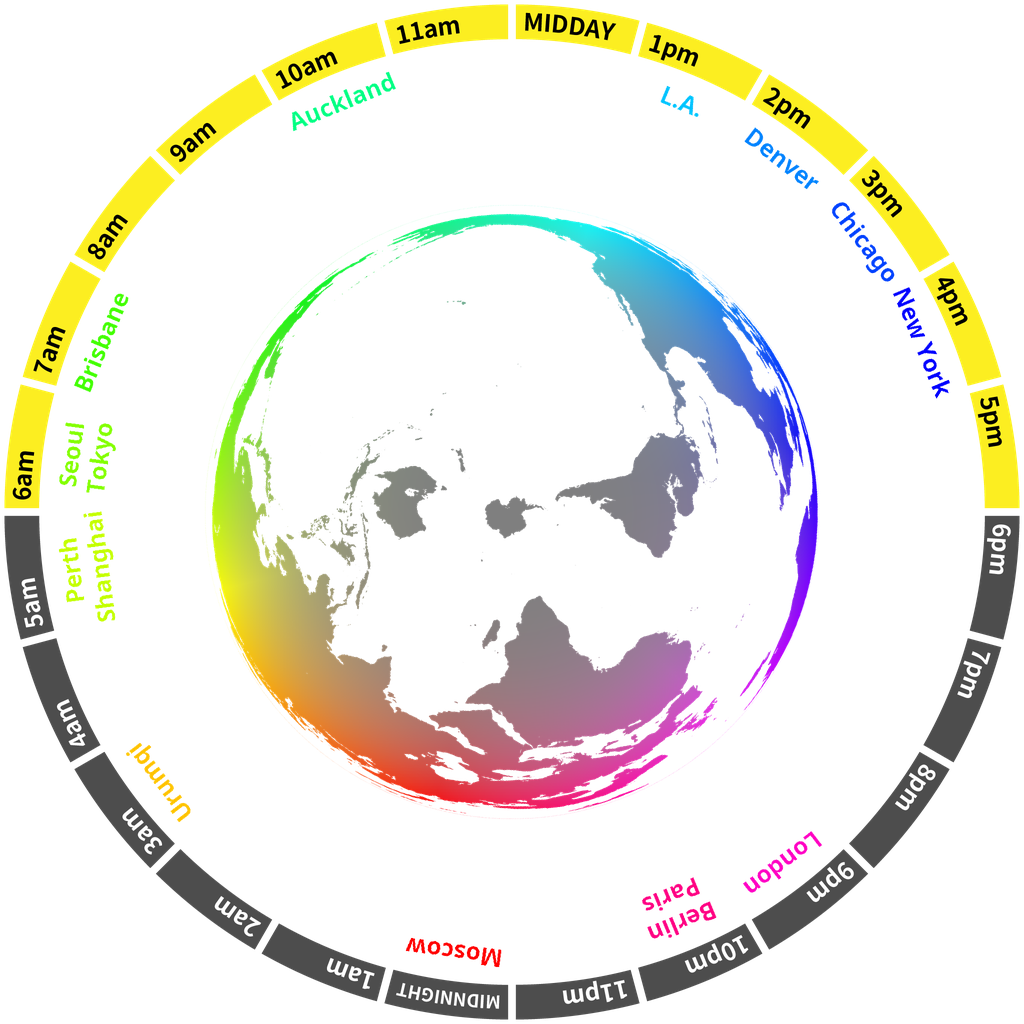
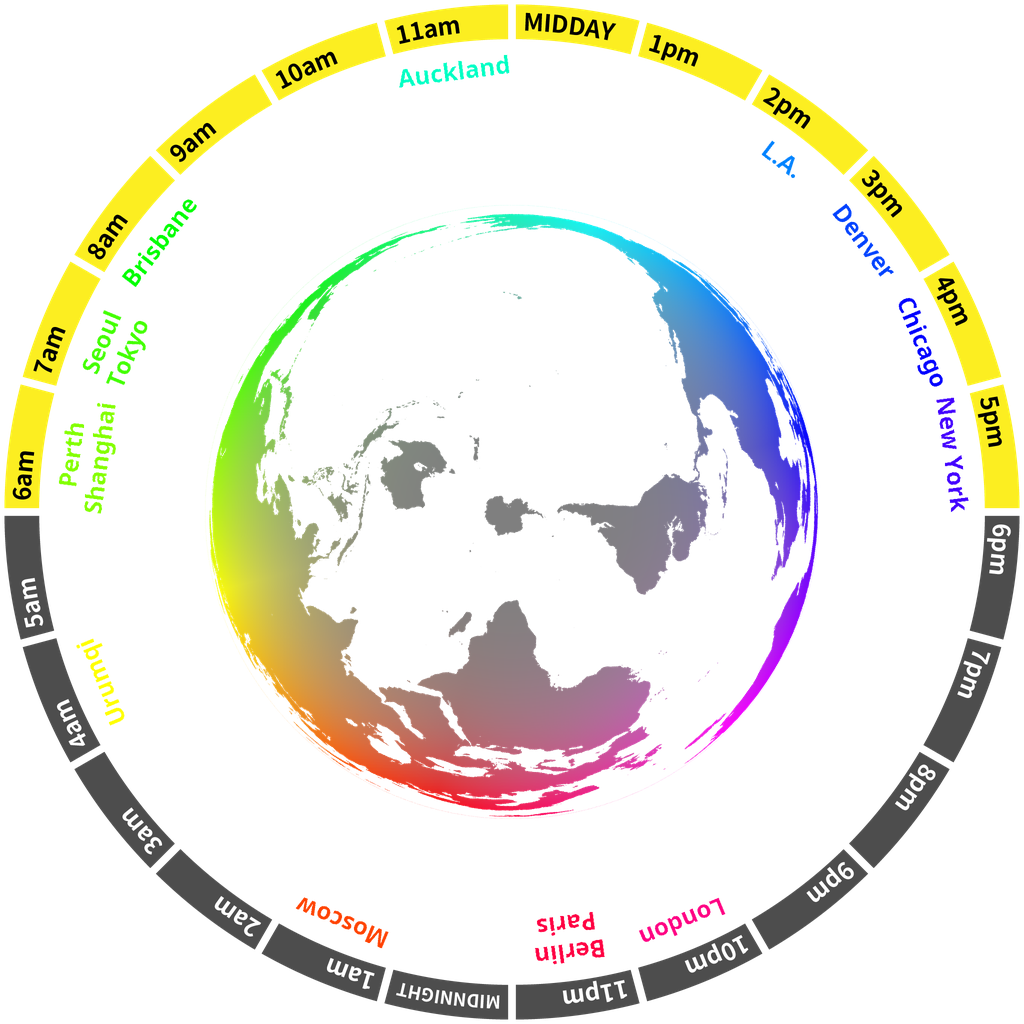
Autogenerated README commit for 2021-01-21_22-25

diff --git a/README.md b/README.md
@@ -17,7 +17,7 @@ My name is Devon and this is where you can view my public projects. I have a mix
 
 I work in a handful of different disciplines, but my recent work tends mostly towards reverse engineering, DevOps, and graphical/UX design.
 
-As a fun demonstration of what I can do, this README *dynamically regenerates* using GitHub Actions every hour! (it last updated at **21:22 UTC, 2021-01-21**)
+As a fun demonstration of what I can do, this README *dynamically regenerates* using GitHub Actions every hour! (it last updated at **22:24 UTC, 2021-01-21**)
 
 <h2>JLPT words of the hour</h2>
 <table>
@@ -30,41 +30,41 @@ As a fun demonstration of what I can do, this README *dynamically regenerates* u
     </tr>
     <tr>
         <td>
-            <p align="center">ぼうか</p>
-            <h3 align="center"><b><a href="https://jisho.org/search/%E9%98%B2%E7%81%AB">防火</a></b></h3>
+            <p align="center">パトカー</p>
+            <h3 align="center"><b><a href="https://jisho.org/search/%E3%83%91%E3%83%88%E3%82%AB%E3%83%BC">パトカー</a></b></h3>
             <hr>
-            <p align="center">fire prevention,<wbr> fire fighting,<wbr> fire proof</p>
+            <p align="center">patrol car</p>
         </td>
         <td>
-            <p align="center">かんちょう</p>
-            <h3 align="center"><b><a href="https://jisho.org/search/%E5%AE%98%E5%BA%81">官庁</a></b></h3>
+            <p align="center">のうど</p>
+            <h3 align="center"><b><a href="https://jisho.org/search/%E6%BF%83%E5%BA%A6">濃度</a></b></h3>
             <hr>
-            <p align="center">government office,<wbr> authorities</p>
+            <p align="center">concentration,<wbr> density</p>
         </td>
         <td>
-            <p align="center">くらい</p>
-            <h3 align="center"><b><a href="https://jisho.org/search/%E4%BD%8D">位</a></b></h3>
+            <p align="center">まねく</p>
+            <h3 align="center"><b><a href="https://jisho.org/search/%E6%8B%9B%E3%81%8F">招く</a></b></h3>
             <hr>
-            <p align="center">grade,<wbr> rank,<wbr> about</p>
+            <p align="center">to invite</p>
         </td>
         <td>
-            <p align="center">すり</p>
-            <h3 align="center"><b><a href="https://jisho.org/search/%E3%81%99%E3%82%8A">すり</a></b></h3>
+            <p align="center">てんらんかい</p>
+            <h3 align="center"><b><a href="https://jisho.org/search/%E5%B1%95%E8%A6%A7%E4%BC%9A">展覧会</a></b></h3>
             <hr>
-            <p align="center">pickpocket</p>
+            <p align="center">exhibition</p>
         </td>
         <td>
-            <p align="center">し</p>
-            <h3 align="center"><b><a href="https://jisho.org/search/%E5%9B%9B">四</a></b></h3>
+            <p align="center">はは</p>
+            <h3 align="center"><b><a href="https://jisho.org/search/%E6%AF%8D">母</a></b></h3>
             <hr>
-            <p align="center">four</p>
+            <p align="center">(my) mother</p>
         </td>
     </tr>
 </table>
 
 <h2>Other things</h2>
 <details>
-<summary>🕘  World clock inspired by <a href="https://xkcd.com/now">XKCD now</a></summary>
+<summary>🕙  World clock inspired by <a href="https://xkcd.com/now">XKCD now</a></summary>
 
 > <img src="generated/now.png" width="512">
 
@@ -72,7 +72,7 @@ As a fun demonstration of what I can do, this README *dynamically regenerates* u
 <details>
 <summary>🌔 Lunar phase</summary>
 
-The moon is approximately 31.44% through its phase (Waxing Gibbous).
+The moon is approximately 31.59% through its phase (Waxing Gibbous).
 
 </details>
 <details>
@@ -83,5 +83,5 @@ The moon is approximately 31.44% through its phase (Waxing Gibbous).
 </details>
 <details>
 <summary>&#x23f2; Year percentage bar</summary>
-<pre><code>2021 [█▁▁▁▁▁▁▁▁▁▁▁▁▁▁▁▁▁▁▁] 5.72%</code></pre>
+<pre><code>2021 [█▁▁▁▁▁▁▁▁▁▁▁▁▁▁▁▁▁▁▁] 5.74%</code></pre>
 </details>
